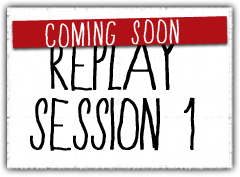
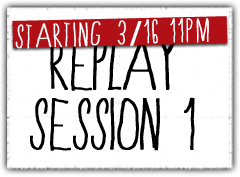
setup site for pre-live stream.

Changed region(s): [[0.0583, 0.0847, 0.875, 0.2825]]

diff --git a/public/index-offline.html b/public/index-offline.html
@@ -1,0 +1,139 @@
+<!DOCTYPE html>
+<html class="no-js">
+<head>
+  <title>DNOW 2012 LIVE</title>
+  <link href="/bootstrap.min.css" media="screen" rel="stylesheet" type="text/css"/>
+  <link href="/dnow.css" media="screen" rel="stylesheet" type="text/css"/>
+  <script src="http://ajax.googleapis.com/ajax/libs/jquery/1.6.4/jquery.min.js" type="text/javascript"></script>
+  <script src="/modernizr.js"></script>
+  <script type="text/javascript" src="/scripts/jwplayer.js"></script>
+  <script type="text/javascript" src="/scripts/jquery.countdown.js"></script>
+  <meta name="description" content="DNOW 2012">
+  <meta name="keywords" content="dnow, 2012, DNOW2012">
+</head>
+<body>
+  <div class="container">
+    <section class="header-content">
+      <div class="row">
+        <div class="logo span3">
+          <a href="/"><img alt="DNOW 2012" src="/images/logo.png" /></a>
+        </div>
+        <div class="span9">
+          <div id="clock">
+            <div class="clock-content">
+              <img alt="Live in..." class="live" src="/images/liveindicator.png" />
+              <span id="daysLeft"></span><img alt="Days left" src="/images/days.png" />
+              <span id="hours"></span><img alt="Hours left" src="/images/hours.png" />
+              <span id="minutes"></span><img alt="Minutes left" src="/images/mins.png" />
+              <span id="seconds"></span><img alt="Seconds left" src="/images/seconds.png" />
+            </div>
+          </div>
+        </div>
+      </div>
+    </section>
+    <section class="video-content">
+      <div class="row">
+        <div class="span8">
+          <img alt="Live soon!" src="/images/preshow.jpg" />
+        </div>
+        <div class="schedule span3">
+          <img alt="Schedule for DNOW 2012" src="/images/schedule.png" />
+        </div>
+      </div>
+    </section>
+    <section class="replay-content">
+      <div class="row">
+        <div class="span3">
+          <img alt="Watch Replay of Session One" src="/images/replay1coming.png" />
+        </div>
+        <div class="span3">
+          <img alt="Watch Replay of Session Two" src="/images/replay2coming.png" />
+        </div>
+        <div class="span3">
+          <img alt="Watch Replay of Session Three" src="/images/replay3coming.png" />
+        </div>
+        <div class="span3">
+          <img alt="Watch Replay of Session Four" src="/images/replay4coming.png" />
+        </div>
+      </div>
+    </section>
+    <footer>
+      <div class="row">
+        <div class="span8 offset3">
+      Streaming and Development by <a href="http://idlefusion.com">Idle Fusion</a> with Graphics by <a href="http://jeremybags.com">JeremyBags</a>.
+        </div>
+      </div>
+    </footer>
+  </div>
+  <script type="text/javascript">
+    jwplayer('mediaplayer').setup({
+      'id': 'playerID',
+      'skin': '/minima.zip',
+      'autostart': 'false',
+      'width': '640',
+      'height': '360',
+      'provider': 'rtmp',
+      'streamer': 'rtmp://107.20.142.70/live',
+      'file': 'livestream',
+      'controlbar': 'bottom',
+      'modes': [
+          {type: 'flash', src: '/jwplayer/player.swf'},
+          {
+            type: 'html5',
+            config: {
+             'file': 'http://107.20.142.70:1935/live/livestream/playlist.m3u8',
+             'provider': 'video'
+            }
+          }
+      ]
+    });
+  </script>
+  <script type="text/javascript">
+    $(function() {
+      $('div#clock').countdown("2012/03/16 19:00:00", function(event) {
+        $this = $(this);
+
+        // Calculate the time left
+        var timeLeft = [
+          event.lasting.days,
+          event.lasting.hours,
+          event.lasting.minutes,
+          event.lasting.seconds
+        ];
+
+        switch(event.type) {
+          case "seconds":
+            $this.find('span#'+event.type).html(timeLeft[3]);
+            break;
+          case "minutes":
+            $this.find('span#'+event.type).html(timeLeft[2]);
+            break;
+          case "hours":
+            $this.find('span#'+event.type).html(timeLeft[1]);
+            break;
+          case "days":
+          case "daysLeft":
+            $this.find('span#'+event.type).html(timeLeft[0]);
+            break;
+          case "finished":
+            $this.fadeTo('slow', .5);
+            break;
+        }
+      });
+    });
+  </script>
+  <script type="text/javascript">
+    var _gauges = _gauges || [];
+    (function() {
+      var t   = document.createElement('script');
+      t.type  = 'text/javascript';
+      t.async = true;
+      t.id    = 'gauges-tracker';
+      t.setAttribute('data-site-id', '4f6271d6f5a1f5393800000f');
+      t.src = '//secure.gaug.es/track.js';
+      var s = document.getElementsByTagName('script')[0];
+      s.parentNode.insertBefore(t, s);
+    })();
+  </script>
+</body>
+</html>

diff --git a/app.rb b/app.rb
@@ -7,7 +7,7 @@ configure do
 end
 
 get '/' do
-  File.read(File.join('public', 'index.html'))
+  File.read(File.join('public', 'index-offline.html'))
 end
 
 get '/sessions' do
